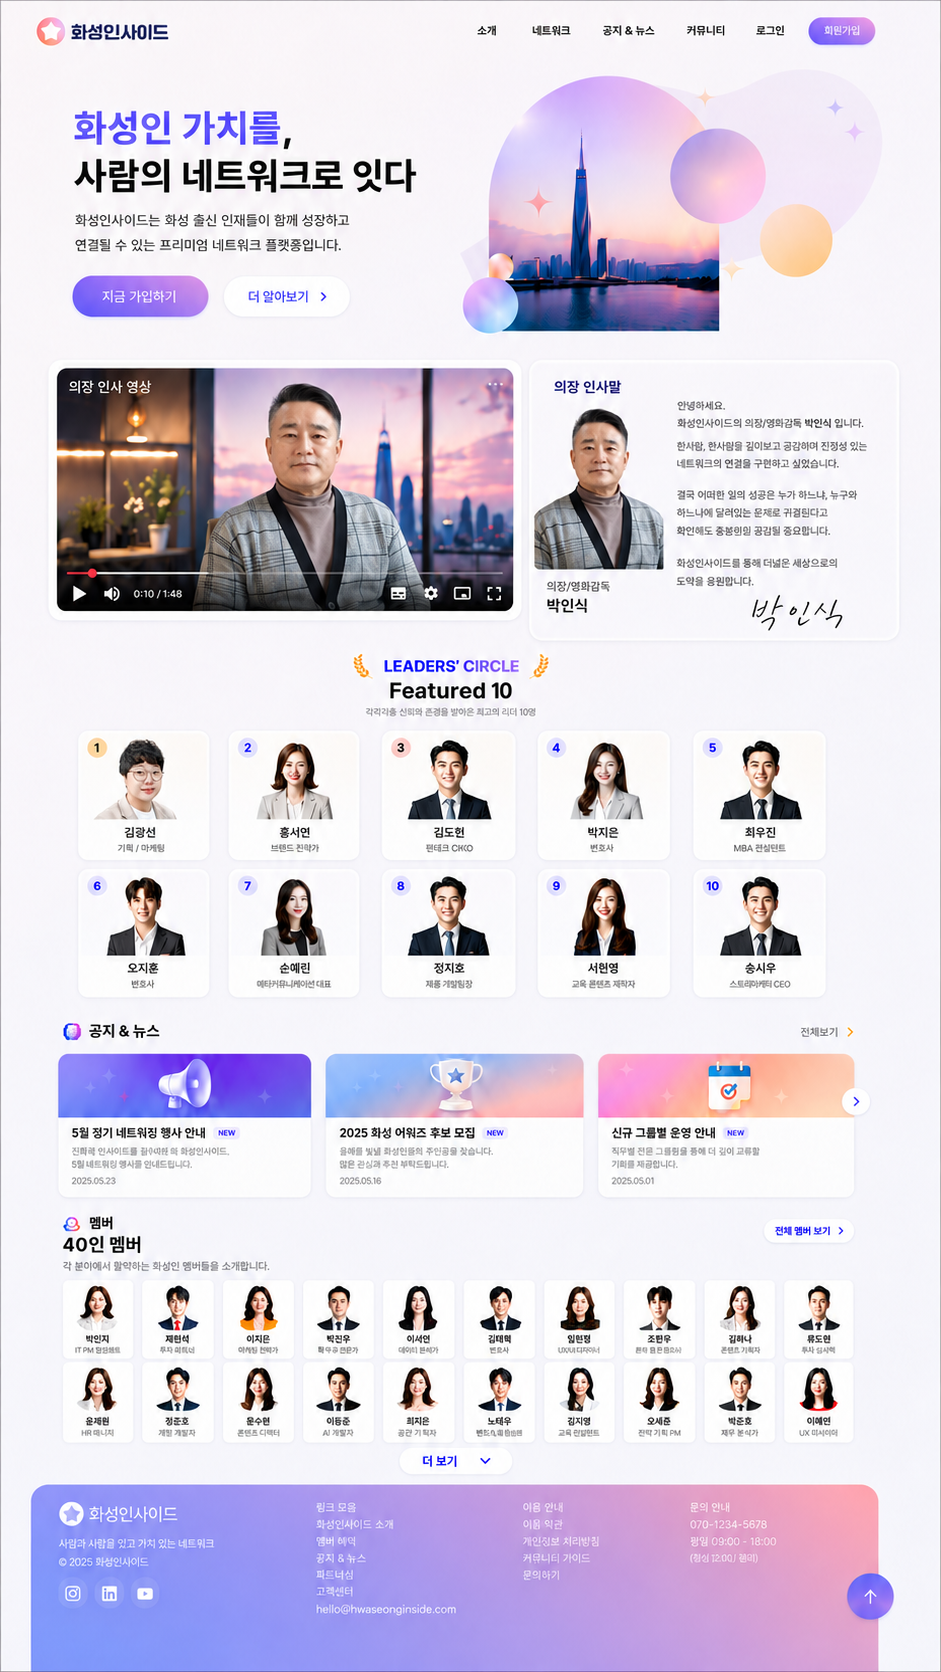
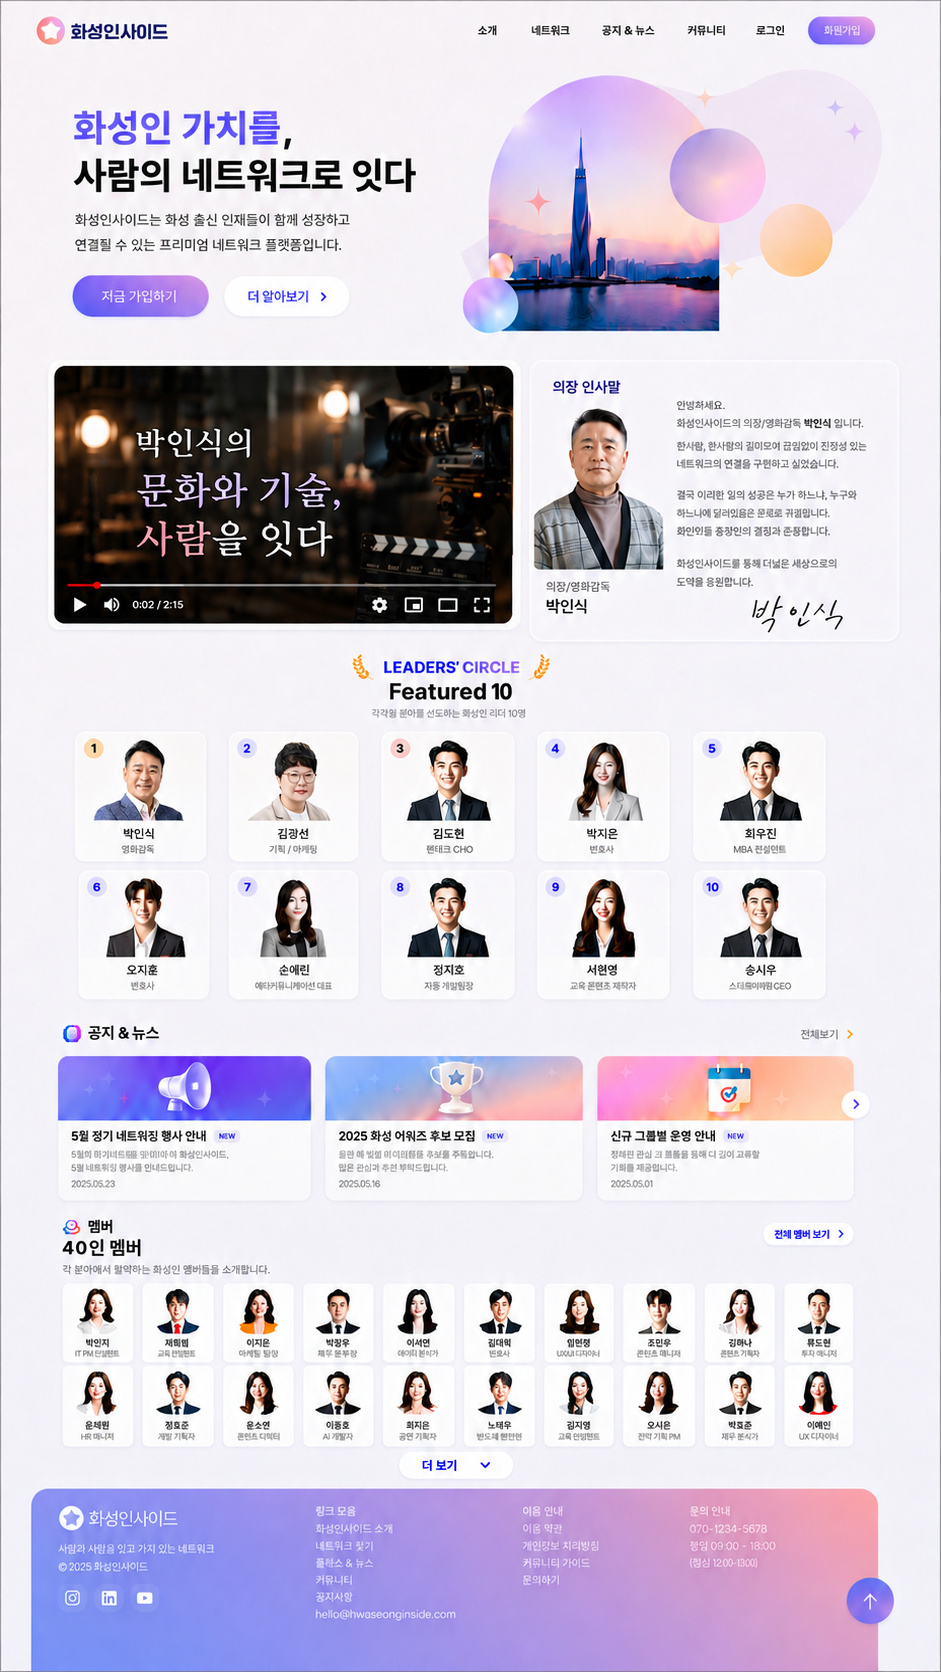
Add files via upload

diff --git a/data/members.js b/data/members.js
@@ -1,5 +1,5 @@
 const names = [
-  ['고재원','투자 컨설턴트'],['홍서연','브랜드 디렉터'],['김도현','전략 컨설턴트'],['박지은','바이오 대표'],['최우진','M&A 컨설턴트'],
+  ['박인식','영화감독'],['김광선','기획/마케팅'],['김도현','전략 컨설턴트'],['박지은','바이오 대표'],['최우진','M&A 컨설턴트'],
   ['오지훈','변호사'],['손예린','미디어 커뮤니티 대표'],['정재오','제품 개발담당'],['서영일','교육 콘텐츠 크리에이터'],['송시우','소프트웨어 CTO'],
   ['박소윤','IT 컨설턴트'],['채동민','금융 투자 매니저'],['전민서','스타트업 대표'],['박태우','어카운트 디렉터'],['이서현','데이터 디렉터'],
   ['문준호','회계사'],['임정민','법무법인 변호사'],['이동훈','데이터 분석가'],['유서연','콘텐츠 기획자'],['조도현','투자 심사역'],
@@ -15,35 +15,74 @@ const colors = [
   ['#ffd9e7','#d8ccff'], ['#d8e6ff','#ffd8c7'], ['#ffe7bf','#d7d2ff'], ['#dff8ef','#d8ccff'], ['#ffe0ef','#cbe8ff']
 ];
 
-export const members = names.map(([name, job], index) => ({
-  id: String(index + 1),
-  name,
-  job,
-  age: 28 + (index % 13),
-  gender: index % 2 ? '여성' : '남성',
-  email: `${name.toLowerCase().replace(/\s/g,'')}@inside.kr`,
-  school: index % 3 === 0 ? '연세대학교 경영학과' : index % 3 === 1 ? '성균관대학교 미디어커뮤니케이션' : '한양대학교 산업공학과',
-  area: index % 2 ? '서울 · 수원 · 화성' : '화성 · 동탄',
-  tier: index < 10 ? 'Platinum' : 'Gold',
-  featured: index < 10,
-  tags: ['브랜딩','커뮤니케이션','콘텐츠 기획','소셜 임팩트','팀 리더십'].slice(0, 3 + (index % 3)),
-  intro: `${name}입니다. 사람과 사람의 연결에서 새로운 기회를 발견하고, 제가 가진 경험을 통해 지역 안에서 좋은 변화를 만드는 일을 좋아합니다. 화성인사이드에서 서로의 전문성을 나누고 함께 성장하는 관계를 만들고 싶습니다.`,
-  careers: [
-    { period: '2022.03 - 현재', company: index % 2 ? '브랜드 웨이브' : '인사이드 파트너스', role: job, desc: '전략 수립, 프로젝트 운영, 고객 경험 개선 및 조직 협업 총괄' },
-    { period: '2019.07 - 2022.02', company: 'Growth Lab', role: '프로젝트 매니저', desc: '신규 사업 기획, 콘텐츠 및 파트너십 프로젝트 리드' },
-    { period: '2016.03 - 2019.06', company: 'Dear Media', role: '기획자', desc: '브랜드 기획, SNS 콘텐츠, 오프라인 협업 프로젝트 진행' }
-  ],
-  strengths: {
-    '센스': 78 + (index % 16),
-    '끈기': 70 + ((index * 3) % 20),
-    '열정': 76 + ((index * 5) % 18),
-    '꿈': 80 + ((index * 7) % 15),
-    '재능': 72 + ((index * 2) % 20),
-    '협업': 75 + ((index * 4) % 18)
-  },
-  colors: colors[index % colors.length],
-  image: `/assets/members/member-${String((index % 30)+1).padStart(2,'0')}.png`,
-  profileImage: index === 1 ? '/assets/members/profile-02.png' : `/assets/members/member-${String((index % 30)+1).padStart(2,'0')}.png`
-}));
+export const members = names.map(([name, job], index) => {
+  const base = {
+    id: String(index + 1),
+    name,
+    job,
+    age: 28 + (index % 13),
+    gender: index % 2 ? '여성' : '남성',
+    email: `${name.toLowerCase().replace(/\s/g,'')}@inside.kr`,
+    school: index % 3 === 0 ? '연세대학교 경영학과' : index % 3 === 1 ? '성균관대학교 미디어커뮤니케이션' : '한양대학교 산업공학과',
+    area: index % 2 ? '서울 · 수원 · 화성' : '화성 · 동탄',
+    tier: index < 10 ? 'Platinum' : 'Gold',
+    featured: index < 10,
+    tags: ['브랜딩','커뮤니케이션','콘텐츠 기획','소셜 임팩트','팀 리더십'].slice(0, 3 + (index % 3)),
+    intro: `${name}입니다. 사람과 사람의 연결에서 새로운 기회를 발견하고, 제가 가진 경험을 통해 지역 안에서 좋은 변화를 만드는 일을 좋아합니다. 화성인사이드에서 서로의 전문성을 나누고 함께 성장하는 관계를 만들고 싶습니다.`,
+    careers: [
+      { period: '2022.03 - 현재', company: index % 2 ? '브랜드 웨이브' : '인사이드 파트너스', role: job, desc: '전략 수립, 프로젝트 운영, 고객 경험 개선 및 조직 협업 총괄' },
+      { period: '2019.07 - 2022.02', company: 'Growth Lab', role: '프로젝트 매니저', desc: '신규 사업 기획, 콘텐츠 및 파트너십 프로젝트 리드' },
+      { period: '2016.03 - 2019.06', company: 'Dear Media', role: '기획자', desc: '브랜드 기획, SNS 콘텐츠, 오프라인 협업 프로젝트 진행' }
+    ],
+    strengths: {
+      '센스': 78 + (index % 16),
+      '끈기': 70 + ((index * 3) % 20),
+      '열정': 76 + ((index * 5) % 18),
+      '꿈': 80 + ((index * 7) % 15),
+      '재능': 72 + ((index * 2) % 20),
+      '협업': 75 + ((index * 4) % 18)
+    },
+    colors: colors[index % colors.length],
+    image: `/assets/members/member-${String((index % 30)+1).padStart(2,'0')}.png`,
+    profileImage: index === 1 ? '/assets/members/profile-02.png' : `/assets/members/member-${String((index % 30)+1).padStart(2,'0')}.png`
+  };
 
-export const getMember = (id) => members.find(m => m.id === String(id)) || members[1];
+  if (index === 0) {
+    return {
+      ...base,
+      age: 56,
+      gender: '남성',
+      email: 'parkmovie@gmail.com',
+      school: '한양대학교 대학원 석사',
+      area: '경기도 · 화성특례시',
+      tags: ['영화제작','AI콘텐츠 제작','문화예술기획','디지털미디어 컨설팅'],
+      image: '/assets/members/member-01-real.jpg',
+      profileImage: '/assets/members/profile-01.jpg',
+      intro: '안녕하십니까. 영화와 문화와 기술이 함께하는 세상을 만들어가는 박인식입니다. 사람과 사람이 문화와 기술과 스토리로 연결되는 아름다운 세상을 함께 만들어갈 동료시민들을 만나는 것이 가장 큰 기쁨입니다.',
+      careers: [
+        { period: '현재', company: '화성인사이드', role: '의장 / 영화감독', desc: '영화·문화·기술이 연결되는 프리미엄 네트워크를 기획하고 운영합니다.' },
+        { period: '2023', company: '한국AI콘텐츠학회', role: '설립', desc: 'AI 인문학과 영화 인문학을 연결하는 콘텐츠 기반을 구축했습니다.' },
+        { period: '주요 경력', company: '빵셔틀 / 58년 개띠', role: '제작연출', desc: '청소년 뮤지컬영화와 디지털 단편영화 제작·연출 및 문화예술 기획을 진행했습니다.' }
+      ]
+    };
+  }
+
+  if (index === 1) {
+    return {
+      ...base,
+      age: 40,
+      gender: '남성',
+      email: 'motherday79@gmail.com',
+      school: '단국대 뮤지컬과 학사',
+      area: '서울 · 경기',
+      tags: ['브랜드 전략','콘텐츠 기획','디지털 마케팅','커뮤니케이션','프로젝트 리드'],
+      image: '/assets/members/member-02-real.jpg',
+      profileImage: '/assets/members/profile-02-real.jpg',
+      intro: '안녕하세요, 김광선입니다. 저는 사람과 콘텐츠, 그리고 기획을 연결하는 기획과 마케팅의 힘을 믿습니다. 브랜드가 가진 이야기를 더 많은 사람에게 닿게 만들고, 실행 가능한 전략으로 성과를 만드는 일을 해왔습니다.'
+    };
+  }
+
+  return base;
+});
+
+export const getMember = (id) => members.find(m => m.id === String(id)) || members[0];

diff --git a/app/members/[id]/page.js b/app/members/[id]/page.js
@@ -30,17 +30,51 @@ function Anchor({ id, y }) {
   );
 }
 
+const profileConfigs = {
+  '1': {
+    image: '/assets/master/detail-master-park-v1.png',
+    alt: '화성인사이드 박인식 프로필 상세페이지',
+    careerLinks: [
+      '서울구로국제어린이영화제 주요 성과 보기',
+      '청소년 뮤지컬영화 빵셔틀 주요 성과 보기',
+      '디지털단편영화 및 한국AI콘텐츠학회 주요 성과 보기',
+    ],
+    recommended: [
+      ['2', '추천 멤버 김광선'],
+      ['3', '추천 멤버 홍서연'],
+      ['4', '추천 멤버 박지은'],
+      ['5', '추천 멤버 최우진'],
+      ['6', '추천 멤버 서하윤'],
+    ],
+  },
+  '2': {
+    image: '/assets/master/detail-master-kim-v1.png',
+    alt: '화성인사이드 김광선 프로필 상세페이지',
+    careerLinks: [
+      '인사이트랩 주요 성과 보기',
+      '커넥트미디어 주요 성과 보기',
+      '스테이지웍스 주요 성과 보기',
+    ],
+    recommended: [
+      ['3', '추천 멤버 이준혁'],
+      ['4', '추천 멤버 박소연'],
+      ['5', '추천 멤버 정민수'],
+      ['6', '추천 멤버 최유진'],
+      ['1', '추천 멤버 박인식'],
+    ],
+  },
+};
+
+const fallback = profileConfigs['2'];
+
 export default async function Profile({ params }) {
-  await params;
+  const resolvedParams = await params;
+  const config = profileConfigs[resolvedParams?.id] || fallback;
 
   return (
     <main className="masterMain detailMasterMain">
       <div className="masterBoard detailMasterBoard">
-        <img
-          src="/assets/master/detail-master-v1.png"
-          alt="화성인사이드 김광선 프로필 상세페이지"
-          className="masterImage"
-        />
+        <img src={config.image} alt={config.alt} className="masterImage" />
 
         <Anchor id="detail-top" y={0} />
         <Anchor id="profile" y={100} />
@@ -64,16 +98,16 @@ export default async function Profile({ params }) {
         <Spot href="#profile" label="프로필" x={146} y={67} w={58} h={24} />
 
         {/* Career performance links */}
-        <Spot href="#career" label="브랜드 웨이브 주요 성과 보기" x={792} y={758} w={82} h={28} />
-        <Spot href="#career" label="그로스하이 주요 성과 보기" x={792} y={819} w={82} h={28} />
-        <Spot href="#career" label="디어미디어 주요 성과 보기" x={792} y={879} w={82} h={28} />
+        <Spot href="#career" label={config.careerLinks[0]} x={792} y={758} w={82} h={28} />
+        <Spot href="#career" label={config.careerLinks[1]} x={792} y={819} w={82} h={28} />
+        <Spot href="#career" label={config.careerLinks[2]} x={792} y={879} w={82} h={28} />
 
         {/* Recommended members */}
-        <Spot href="/members/1" label="추천 멤버 이준혁" x={50} y={981} w={144} h={153} round="14px" />
-        <Spot href="/members/2" label="추천 멤버 최민수" x={219} y={981} w={144} h={153} round="14px" />
-        <Spot href="/members/3" label="추천 멤버 오예림" x={389} y={981} w={144} h={153} round="14px" />
-        <Spot href="/members/4" label="추천 멤버 강재우" x={558} y={981} w={144} h={153} round="14px" />
-        <Spot href="/members/5" label="추천 멤버 정유진" x={728} y={981} w={144} h={153} round="14px" />
+        <Spot href={`/members/${config.recommended[0][0]}`} label={config.recommended[0][1]} x={50} y={981} w={144} h={153} round="14px" />
+        <Spot href={`/members/${config.recommended[1][0]}`} label={config.recommended[1][1]} x={219} y={981} w={144} h={153} round="14px" />
+        <Spot href={`/members/${config.recommended[2][0]}`} label={config.recommended[2][1]} x={389} y={981} w={144} h={153} round="14px" />
+        <Spot href={`/members/${config.recommended[3][0]}`} label={config.recommended[3][1]} x={558} y={981} w={144} h={153} round="14px" />
+        <Spot href={`/members/${config.recommended[4][0]}`} label={config.recommended[4][1]} x={728} y={981} w={144} h={153} round="14px" />
         <Spot href="/members" label="추천 멤버 더 보기" x={883} y={1016} w={36} h={42} round="20px" />
 
         {/* CTA */}

diff --git a/app/page.js b/app/page.js
@@ -3,8 +3,16 @@ const H = 1672;
 const px = (v, total) => `${(v / total) * 100}%`;
 
 const featured = [
-  ['1', 80, 728], ['2', 237, 728], ['3', 394, 728], ['4', 551, 728], ['5', 708, 728],
-  ['6', 80, 868], ['7', 237, 868], ['8', 394, 868], ['9', 551, 868], ['10', 708, 868],
+  ['1', '박인식 Featured 멤버 상세보기', 80, 728],
+  ['2', '김광선 Featured 멤버 상세보기', 237, 728],
+  ['3', '김도현 Featured 멤버 상세보기', 394, 728],
+  ['4', '박지은 Featured 멤버 상세보기', 551, 728],
+  ['5', '최우진 Featured 멤버 상세보기', 708, 728],
+  ['6', '오지훈 Featured 멤버 상세보기', 80, 868],
+  ['7', '손예린 Featured 멤버 상세보기', 237, 868],
+  ['8', '정지호 Featured 멤버 상세보기', 394, 868],
+  ['9', '서영영 Featured 멤버 상세보기', 551, 868],
+  ['10', '송시우 Featured 멤버 상세보기', 708, 868],
 ];
 
 const regular = [
@@ -71,8 +79,8 @@ export default function Home() {
         <Spot href="#network" label="더 알아보기" x={228} y={282} w={140} h={49} round="25px" />
         <Spot href="#network" label="의장 인사 영상" x={58} y={377} w={474} h={257} round="16px" />
 
-        {featured.map(([id, x, y]) => (
-          <Spot key={id} href={`/members/${id}`} label={`${id}번 Featured 멤버 상세보기`} x={x} y={y} w={134} h={133} round="14px" />
+        {featured.map(([id, label, x, y]) => (
+          <Spot key={id} href={`/members/${id}`} label={label} x={x} y={y} w={134} h={133} round="14px" />
         ))}
 
         <Spot href="/notice-news" label="공지와 뉴스 전체보기" x={803} y={1014} w={88} h={30} />

diff --git a/README.md b/README.md
@@ -1,18 +1,21 @@
-# Hwaseong Inside - real content v1.2 main fix
+# Hwaseong Inside - real content v1.5 apply park
 
-이번 버전은 사용자가 최종 확인한 수정사항을 반영한 웹 적용본입니다.
+최종 반영본입니다.
 
-## 이번 수정 핵심
-- 메인 마스터 이미지 교체
-  - 의장 영역(영상 썸네일 + 인사말 카드 인물): **박인식** 유지 및 정면 느낌으로 보정
-  - Featured 10의 **1번 카드만 김광선**으로 반영
-- 상세 마스터 이미지 유지
-  - **김광선 상세 프로필 페이지** 유지
-- 공지 & 뉴스 마스터 유지
-- 클릭포인트 구조는 기존과 동일한 투명 클릭맵 유지
+## 이번 적용 내용
+- 메인페이지 최신 승인본 반영
+  - 메인 유튜브 썸네일: 박인식 상세페이지와 동일한 영화현장형 썸네일 반영
+  - 의장 인삿말 카드의 박인식 이미지는 유지
+  - Featured 10의 1번: 박인식 / 2번: 김광선 반영
+- 박인식 상세페이지 최신 승인본 반영
+  - 중단 유튜브 영역: 인물 없는 영화현장 배경 썸네일 적용
+  - 문구: "박인식의 문화와 기술, 사람을 잇다" 컨셉 반영
+- 김광선 상세페이지 유지
+- 공지&뉴스 페이지 및 게시물 마스터 유지
+- 클릭포인트 구조 유지
 
 ## 적용 방법
 1. 압축 해제
-2. GitHub `hwaseong-inside` 저장소 루트에 전체 덮어쓰기
+2. GitHub 저장소 루트에 전체 덮어쓰기
 3. Commit changes
 4. Vercel 자동 배포 확인
